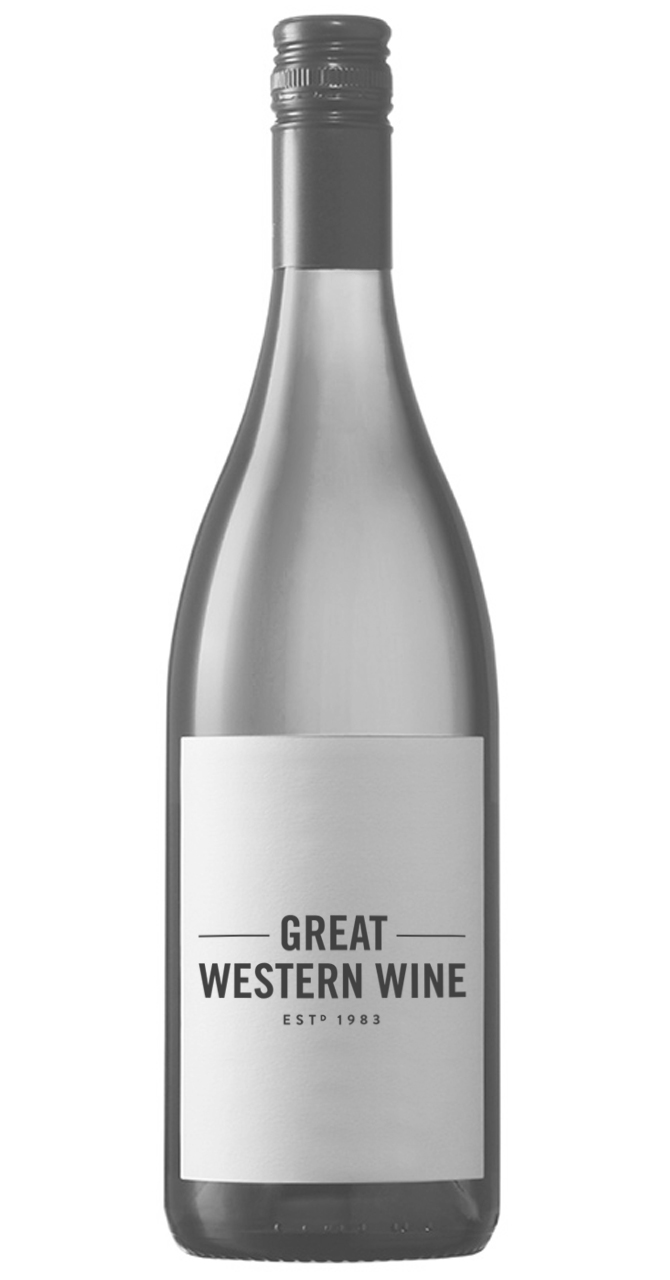
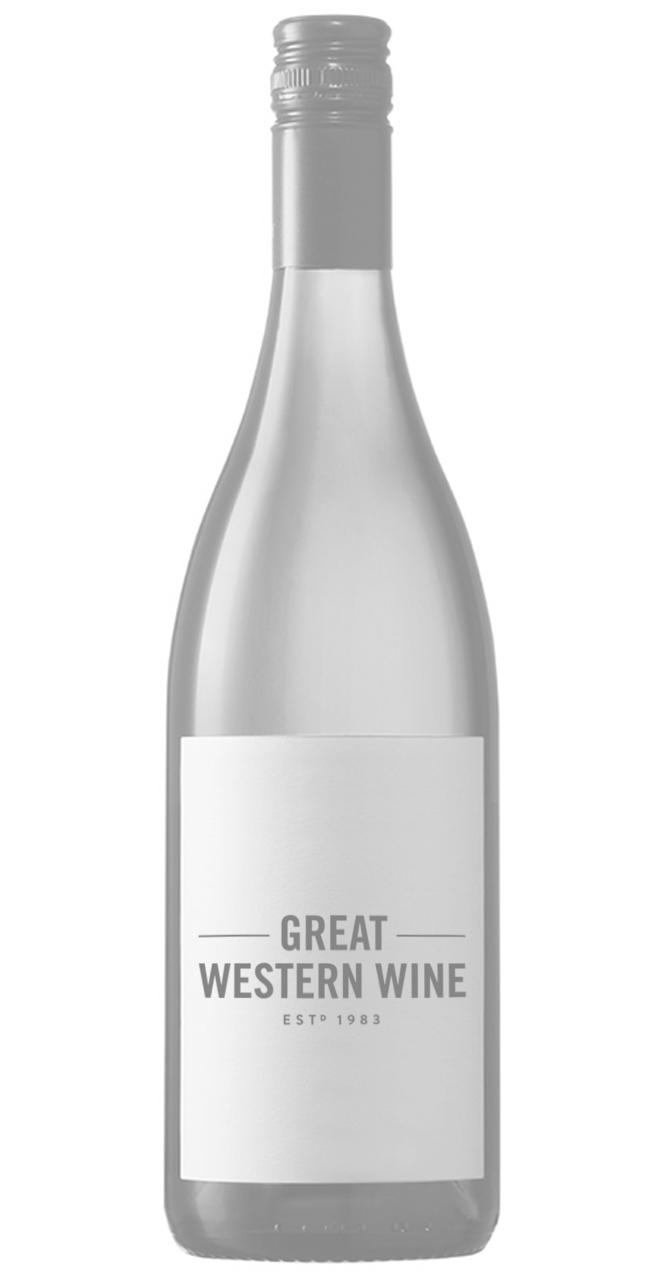
Remove search suggestions and reduce placeholder opacity

Changed region(s): [[0.2388, 0.0, 0.7463, 1.0]]

diff --git a/great-western-wine-theme/templates/pages/search.html b/great-western-wine-theme/templates/pages/search.html
@@ -63,68 +63,6 @@ product_results:
     {{else}}
         <main class="page-content page-content--centered">
     {{/if}}
-        {{#if forms.search.has_suggestions}}
-            <div class="panel panel--large">
-                <div class="panel-body">
-                    {{#if forms.search.suggested_query}}
-                        <div class="search-suggestion">
-                            {{lang 'forms.search.did_you_mean'}} <strong>{{forms.search.suggested_query.query}}</strong>
-                            <a href="{{forms.search.suggested_query.url}}" class="search-refine">{{lang 'forms.search.refine'}}</a>
-                        </div>
-
-                        {{#if result_count '===' 0}}
-                            <div class="search-suggestion">
-                                <p>
-                                    {{lang 'forms.search.your_search_for'}}
-                                    "<strong>{{forms.search.query}}</strong>"
-                                    {{lang 'forms.search.no_match'}}
-                                </p>
-                            </div>
-                        {{/if}}
-                    {{/if}}
-
-                    {{#if category_results.length}}
-                        <div class="search-suggestion">
-                            <h5 class="suggestion-title">{{lang 'forms.search.categories'}}</h5>
-                            <ul class="category-suggestion-list">
-
-                                {{#each category_results}}
-                                <li class="category-suggestion">
-
-                                    {{#each this}}
-                                        <a href="{{url}}">{{name}}</a>
-                                        {{#unless @last}} > {{/unless}}
-                                    {{/each}}
-
-                                </li>
-                                {{/each}}
-                            </ul>
-                        </div>
-                    {{/if}}
-
-                    {{#if brand_results.length}}
-                        <div class="search-suggestion">
-                            <h5 class="suggestion-title">{{lang 'forms.search.brand'}}</h5>
-                            {{#each brand_results}}
-                                <a href="{{url}}">{{name}}</a>
-                                {{#unless @last}}, {{/unless}}
-                            {{/each}}
-                        </div>
-                    {{/if}}
-
-                    {{#if result_count '===' 0}}
-                        <div class="search-suggestion">
-                            <h5 class="suggestion-title">{{lang 'forms.search.suggestions.title'}}</h5>
-                            <ul>
-                                <li>{{lang 'forms.search.suggestions.line1'}}</li>
-                                <li>{{lang 'forms.search.suggestions.line2'}}</li>
-                                <li>{{lang 'forms.search.suggestions.line3'}}</li>
-                            </ul>
-                        </div>
-                    {{/if}}
-                </div>
-            </div>
-        {{/if}}
 
         {{#if content_results}}
             <div id="search-results-content" {{#if forms.search.section '!=' 'content'}}class="u-hiddenVisually"{{/if}}>
